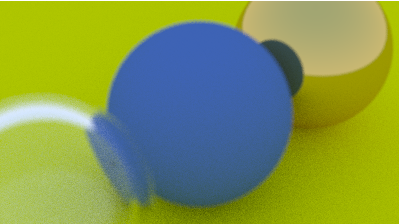
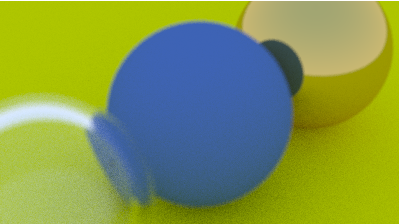
Failed attempt at go routines

diff --git a/material.go b/material.go
@@ -1,18 +1,21 @@
 package main
 
-import "math"
+import (
+	"math"
+	"math/rand"
+)
 
 type material interface {
-	scatter(rayIn *ray, rec *hitRecord) (scattered *ray, attenuation *color3, scatter bool)
+	scatter(rayIn *ray, rec *hitRecord, rnd *rand.Rand) (scattered *ray, attenuation *color3, scatter bool)
 }
 
 type lambertian struct {
 	albedo color3
 }
 
-func (lamb lambertian) scatter(rayIn *ray, rec *hitRecord) (scattered *ray, attenuation *color3, scatter bool) {
+func (lamb lambertian) scatter(rayIn *ray, rec *hitRecord, rnd *rand.Rand) (scattered *ray, attenuation *color3, scatter bool) {
 
-	scatterDirection := rec.normal.Add(randomUnitVector())
+	scatterDirection := rec.normal.Add(randomUnitVector(rnd))
 	// Catch degenerate scatter direction
 	if scatterDirection.nearZero() {
 		scatterDirection = rec.normal
@@ -28,11 +31,11 @@ type metal struct {
 	fuzz   float64 //Radius of sphere
 }
 
-func (m metal) scatter(rayIn *ray, rec *hitRecord) (scattered *ray, attenuation *color3, scatter bool) {
+func (m metal) scatter(rayIn *ray, rec *hitRecord, rnd *rand.Rand) (scattered *ray, attenuation *color3, scatter bool) {
 
 	reflected := reflect(rayIn.direction.Normalize(), rec.normal)
 
-	scattered = &ray{rec.p, reflected.Add(randomInUnitSphere().Mult(m.fuzz))}
+	scattered = &ray{rec.p, reflected.Add(randomInUnitSphere(rnd).Mult(m.fuzz))}
 	attenuation = &m.albedo
 	return scattered, attenuation, scattered.direction.Dot(rec.normal) > 0
 }
@@ -41,7 +44,7 @@ type dielectric struct {
 	ir float64 //Index of refraction
 }
 
-func (m dielectric) scatter(rayIn *ray, rec *hitRecord) (scattered *ray, attenuation *color3, scatter bool) {
+func (m dielectric) scatter(rayIn *ray, rec *hitRecord, rnd *rand.Rand) (scattered *ray, attenuation *color3, scatter bool) {
 
 	var refractionRatio float64
 	if rec.frontFace {
@@ -57,7 +60,7 @@ func (m dielectric) scatter(rayIn *ray, rec *hitRecord) (scattered *ray, attenua
 	cannotRefract := refractionRatio*sinTheta > 1.0
 
 	var direction vec3
-	if cannotRefract || reflectance(cosTheta, refractionRatio) > randomDouble() {
+	if cannotRefract || reflectance(cosTheta, refractionRatio) > randomDouble(rnd) {
 		direction = reflect(unitDirection, rec.normal)
 	} else {
 		direction = refract(unitDirection, rec.normal, refractionRatio)

diff --git a/vec3.go b/vec3.go
@@ -3,6 +3,7 @@ package main
 import (
 	"fmt"
 	"math"
+	"math/rand"
 )
 
 type vec3 [3]float64
@@ -72,17 +73,17 @@ func Lerp(start vec3, end vec3, t float64) vec3 {
 	return start.Mult(1.0 - t).Add(end.Mult(t))
 }
 
-func randomVec3() vec3 {
-	return vec3{randomDouble(), randomDouble(), randomDouble()}
+func randomVec3(rnd *rand.Rand) vec3 {
+	return vec3{randomDouble(rnd), randomDouble(rnd), randomDouble(rnd)}
 }
 
-func randomRangeVec3(min float64, max float64) vec3 {
-	return vec3{randomDoubleRange(min, max), randomDoubleRange(min, max), randomDoubleRange(min, max)}
+func randomRangeVec3(min float64, max float64, rnd *rand.Rand) vec3 {
+	return vec3{randomDoubleRange(min, max, rnd), randomDoubleRange(min, max, rnd), randomDoubleRange(min, max, rnd)}
 }
 
-func randomInUnitSphere() vec3 {
+func randomInUnitSphere(rnd *rand.Rand) vec3 {
 	for {
-		p := randomRangeVec3(-1, 1)
+		p := randomRangeVec3(-1, 1, rnd)
 		if p.LengthSquared() >= 1 {
 			continue
 		}
@@ -91,12 +92,12 @@ func randomInUnitSphere() vec3 {
 }
 
 //True lambertian reflection
-func randomUnitVector() vec3 {
-	return randomInUnitSphere().Normalize()
+func randomUnitVector(rnd *rand.Rand) vec3 {
+	return randomInUnitSphere(rnd).Normalize()
 }
 
-func randomInHemisphere(normal vec3) vec3 {
-	inUnitSphere := randomInUnitSphere()
+func randomInHemisphere(normal vec3, rnd *rand.Rand) vec3 {
+	inUnitSphere := randomInUnitSphere(rnd)
 
 	if inUnitSphere.Dot(normal) > 0.0 {
 		return inUnitSphere
@@ -105,9 +106,9 @@ func randomInHemisphere(normal vec3) vec3 {
 
 }
 
-func randomInUnitDisk() vec3 {
+func randomInUnitDisk(rnd *rand.Rand) vec3 {
 	for {
-		p := vec3{randomDoubleRange(-1, 1), randomDoubleRange(-1, 1), 0}
+		p := vec3{randomDoubleRange(-1, 1, rnd), randomDoubleRange(-1, 1, rnd), 0}
 		if p.LengthSquared() >= 1 {
 			continue
 		}

diff --git a/main.go b/main.go
@@ -4,6 +4,7 @@ import (
 	"fmt"
 	"image"
 	"image/png"
+	"math/rand"
 	"os"
 	"time"
 )
@@ -42,16 +43,13 @@ func main() {
 	for y := imageHeight - 1; y >= 0; y-- {
 		fmt.Printf("%d/%d lines\n", imageHeight-y, imageHeight)
 		for x := 0; x < imageWidth; x++ {
+			ch := make(chan color3, samplesPerPixel)
 
 			pixelColor := color3{0, 0, 0}
-			for s := 0; s < samplesPerPixel; s++ {
-				//Horizontal ratio?
-				u := (float64(x) + randomDouble()) / float64(imageWidth-1)
-				//Vertical ratio?
-				v := (float64(y) + randomDouble()) / float64(imageHeight-1)
-				currentRay := c.getRay(u, v)
-				rayColor := currentRay.RayColor(world, maxDepth)
-				pixelColor = pixelColor.Add(rayColor)
+			sendRays(&world, &c, x, y, imageWidth, imageHeight, samplesPerPixel, maxDepth, ch)
+
+			for i := 0; i < samplesPerPixel; i++ {
+				pixelColor = pixelColor.Add(<-ch)
 			}
 			// Colors are defined by Red, Green, Blue, Alpha uint8 values.
 			img.Set(x, imageHeight-y, color3ToRGBA(pixelColor, samplesPerPixel))
@@ -64,4 +62,23 @@ func main() {
 
 	t1 := time.Now()
 	fmt.Printf("The call took %v to run.\n", t1.Sub(t0))
+}
+
+func sendRays(world *hittableList, c *camera, x int, y int, imageWidth int, imageHeight int, samplesPerPixel int, maxDepth int, ch chan color3) {
+
+	for s := 0; s < samplesPerPixel; s++ {
+		go func() {
+			rnd := rand.New(rand.NewSource(rand.Int63()))
+
+			//Horizontal ratio?
+			u := (float64(x) + randomDouble(rnd)) / float64(imageWidth-1)
+			//Vertical ratio?
+			v := (float64(y) + randomDouble(rnd)) / float64(imageHeight-1)
+
+			currentRay := c.getRay(u, v, rnd)
+			rayColor := currentRay.RayColor(world, maxDepth, rnd)
+			// pixelColor = pixelColor.Add(rayColor)
+			ch <- rayColor
+		}()
+	}
 }

diff --git a/scenes.go b/scenes.go
@@ -1,6 +1,9 @@
 package main
 
-import "math"
+import (
+	"math"
+	"math/rand"
+)
 
 func threeBallScene() (world hittableList) {
 	materialGround := lambertian{color3{0.8, 0.8, 0.0}}
@@ -38,20 +41,20 @@ func randomScene() (world hittableList) {
 
 	for a := -11; a < 11; a++ {
 		for b := -11; b < 11; b++ {
-			chooseMat := randomDouble()
+			chooseMat := rand.Float64()
 
-			center := point3{float64(a) + 0.9*randomDouble(), 0.2, float64(b) + 0.9*randomDouble()}
+			center := point3{float64(a) + 0.9*rand.Float64(), 0.2, float64(b) + 0.9*rand.Float64()}
 
 			if center.Sub(point3{4, 0.2, 0}).Length() > 0.9 {
 				if chooseMat < 0.8 {
 					// diffuse
-					albedo := randomVec3().MultEach(randomVec3())
+					albedo := color3{rand.Float64() * rand.Float64(), rand.Float64() * rand.Float64(), rand.Float64() * rand.Float64()}
 					sphereMaterial := lambertian{albedo}
 					world.Add(&sphere{center, 0.2, sphereMaterial})
 				} else if chooseMat < 0.95 {
 					// metal
-					albedo := randomRangeVec3(0.5, 1)
-					fuzz := randomDoubleRange(0, 0.5)
+					albedo := color3{0.5 * (1 + rand.Float64()), 0.5 * (1 + rand.Float64()), 0.5 * (1 + rand.Float64())}
+					fuzz := 0.5 * rand.Float64()
 					sphereMaterial := metal{albedo, fuzz}
 					world.Add(&sphere{center, 0.2, sphereMaterial})
 				} else {

diff --git a/ray.go b/ray.go
@@ -1,5 +1,7 @@
 package main
 
+import "math/rand"
+
 type ray struct {
 	origin    point3
 	direction vec3
@@ -10,19 +12,19 @@ func (r *ray) At(t float64) point3 {
 }
 
 //"Background" color (colors can be changed)
-func (r *ray) RayColor(world hittable, maxDepth int) color3 {
+func (r *ray) RayColor(world hittable, maxDepth int, rnd *rand.Rand) color3 {
 	if maxDepth <= 0 {
 		//No more light gathered
 		return color3{0, 0, 0}
 	}
 
 	rec, hit := world.hit(r, 0.001, infinity)
-	if hit == true {
+	if hit {
 
-		scattered, attenuation, scatter := rec.mat.scatter(r, rec)
+		scattered, attenuation, scatter := rec.mat.scatter(r, rec, rnd)
 		// attenuation.Print()
 		if scatter {
-			return attenuation.MultEach(scattered.RayColor(world, maxDepth-1))
+			return attenuation.MultEach(scattered.RayColor(world, maxDepth-1, rnd))
 		}
 		return color3{0, 0, 0}
 	}

diff --git a/camera.go b/camera.go
@@ -1,6 +1,9 @@
 package main
 
-import "math"
+import (
+	"math"
+	"math/rand"
+)
 
 type camera struct {
 	origin          point3
@@ -32,9 +35,9 @@ func initCamera(lookFrom point3, lookAt point3, up vec3, vfov float64, aspectRat
 	return c
 }
 
-func (c camera) getRay(s float64, t float64) *ray {
+func (c camera) getRay(s float64, t float64, rnd *rand.Rand) *ray {
 
-	rd := randomInUnitDisk().Mult(c.lensRadius)
+	rd := randomInUnitDisk(rnd).Mult(c.lensRadius)
 	offset := (c.u.Mult(rd.X())).Add(c.v.Mult(rd.Y()))
 
 	return &ray{c.origin.Add(offset), c.lowerLeftCorner.Add(c.horizontal.Mult(s)).Add(c.vertical.Mult(t)).Sub(c.origin).Sub(offset)}

diff --git a/hittable.go b/hittable.go
@@ -78,13 +78,13 @@ type hittableList struct {
 	objects []hittable
 }
 
-func (list hittableList) hit(r *ray, tMin float64, tMax float64) (rec *hitRecord, hit bool) {
+func (list *hittableList) hit(r *ray, tMin float64, tMax float64) (rec *hitRecord, hit bool) {
 
 	hitAnything := false
 	closestSoFar := tMax
 
 	for _, obj := range list.objects {
-		if hitRec, hit := obj.hit(r, tMin, closestSoFar); hit == true {
+		if hitRec, hit := obj.hit(r, tMin, closestSoFar); hit {
 			hitAnything = true
 			closestSoFar = hitRec.t
 			rec = hitRec

diff --git a/utils.go b/utils.go
@@ -11,12 +11,12 @@ func degToRad(deg float64) float64 {
 	return deg * math.Pi / 180.0
 }
 
-func randomDouble() float64 {
-	return rand.Float64()
+func randomDouble(rnd *rand.Rand) float64 {
+	return rnd.Float64()
 }
 
-func randomDoubleRange(min float64, max float64) float64 {
-	return min + (max-min)*randomDouble()
+func randomDoubleRange(min float64, max float64, rnd *rand.Rand) float64 {
+	return min + (max-min)*randomDouble(rnd)
 }
 
 func clamp(x float64, min float64, max float64) float64 {
